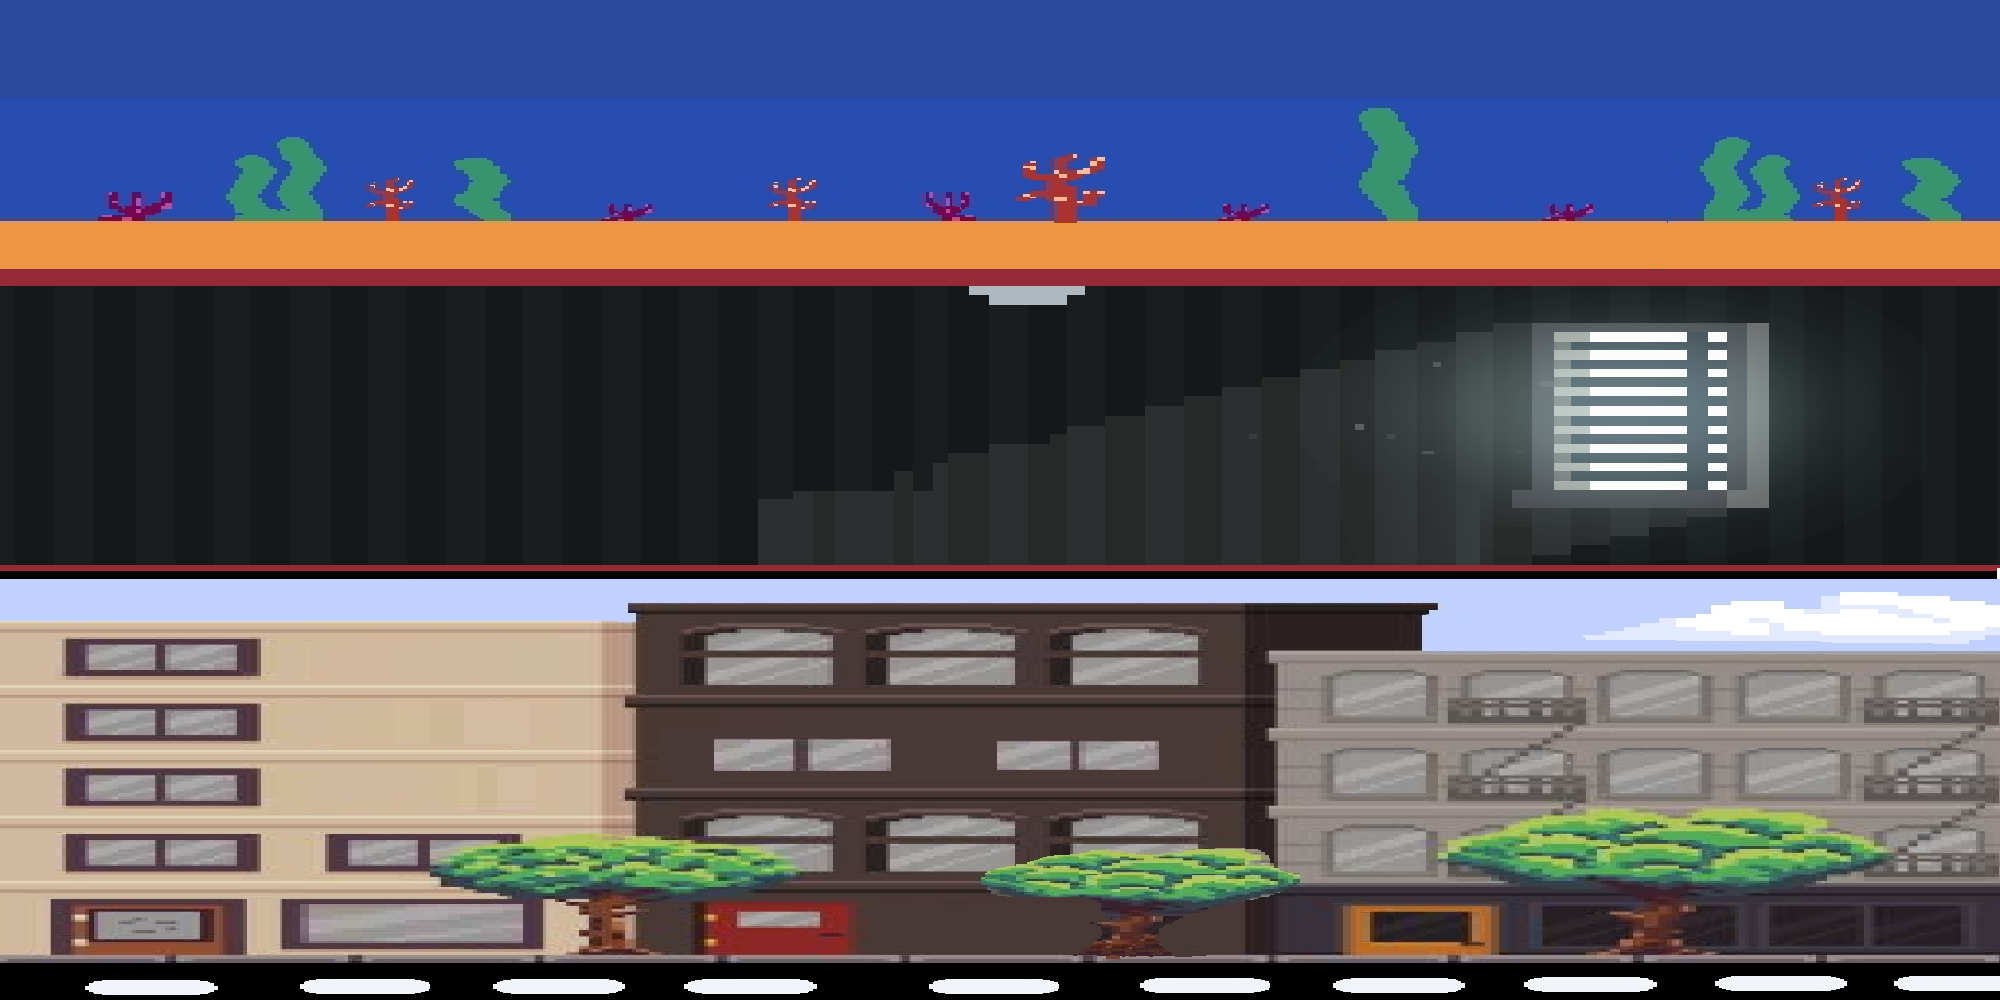
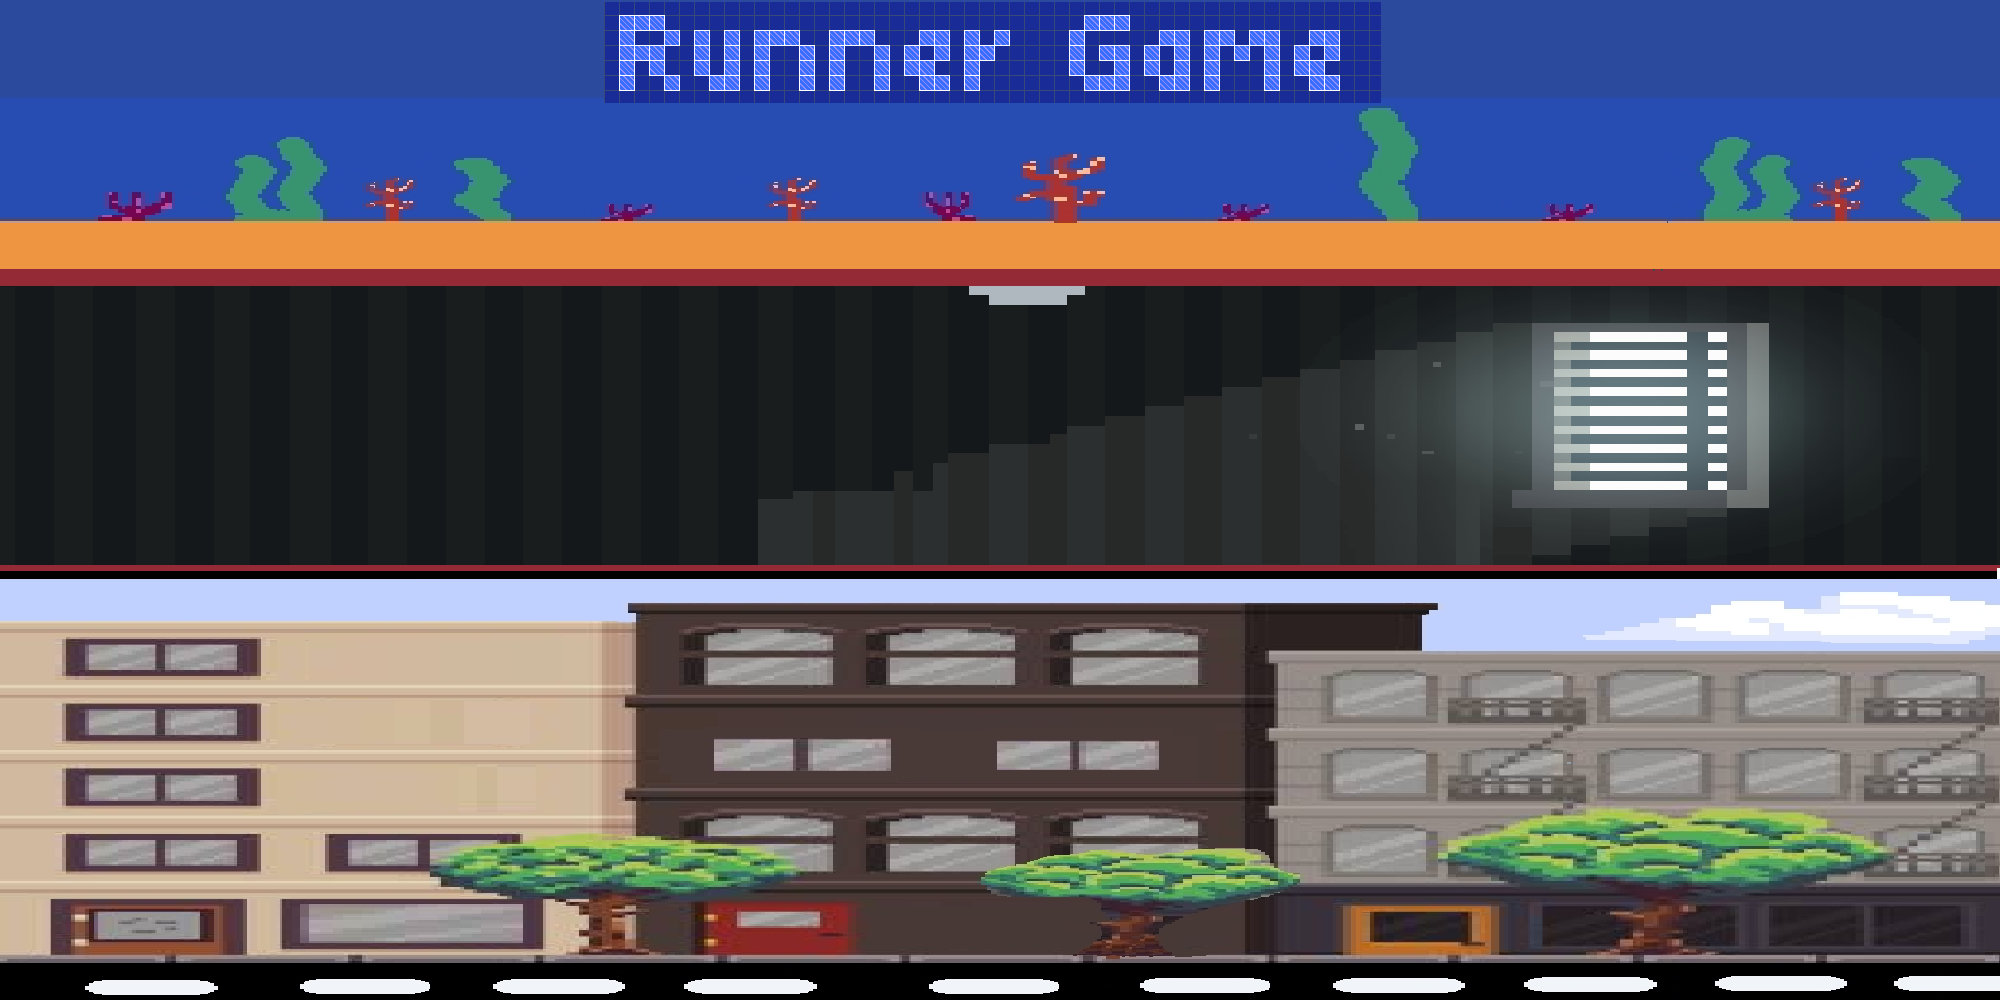
screens

Changed region(s): [[0.279, 0.0, 0.713, 0.124]]

diff --git a/Testing/core/src/com/mygdx/game/Screens/StartScreen.java b/Testing/core/src/com/mygdx/game/Screens/StartScreen.java
@@ -27,7 +27,6 @@ public class StartScreen implements Screen {
         this.stage = new Stage(new ScreenViewport());
         Gdx.input.setInputProcessor(stage);
         Bg = new TextureRegion(new Texture("Main_Screen.png"));
-
         initButtons();
     }
 
@@ -96,7 +95,7 @@ public class StartScreen implements Screen {
         Gdx.gl.glClear(GL20.GL_COLOR_BUFFER_BIT);           //clear screen
 
         game.batch.begin();
-        game.batch.draw(Bg, 0, 0, 2000 , 1000 );
+        game.batch.draw(Bg, -30, 80, Bg.getRegionWidth() * 1f, Bg.getRegionHeight() * 1f);
         game.batch.end();
 
         stage.act(Math.min(Gdx.graphics.getDeltaTime(), 1 / 30f));

diff --git a/Testing/core/src/com/mygdx/game/Screens/InfoScreen.java b/Testing/core/src/com/mygdx/game/Screens/InfoScreen.java
@@ -36,7 +36,7 @@ public class InfoScreen implements Screen {
         Gdx.gl.glClear(GL20.GL_COLOR_BUFFER_BIT);           //clear screen
 
         game.batch.begin();
-        game.batch.draw(Bg, -30, 80, Bg.getRegionWidth() * 7.5f, Bg.getRegionHeight() * 7.5f);
+        game.batch.draw(Bg, -30, 80, Bg.getRegionWidth() * 8f, Bg.getRegionHeight() * 4f);
         game.batch.end();
 
         stage.act(Math.min(Gdx.graphics.getDeltaTime(), 1 / 30f));

diff --git a/Testing/core/src/com/mygdx/game/RunnerGame.java b/Testing/core/src/com/mygdx/game/RunnerGame.java
@@ -20,8 +20,8 @@ public class RunnerGame extends Game {
 	public  static  final  short COURSEWORK_BIT = 8;
 	public static final short DESTROYED_BIT = 16;
 	public SpriteBatch batch;
-	public static boolean Level1 = false;
-	public static boolean Level2 = true;
+	public static boolean Level1 = true;
+	public static boolean Level2 = false;
 	public static boolean Level3 = false;
 	public static boolean canJump = true;
 	public static int Score = 0;

diff --git a/Testing/core/src/com/mygdx/game/Sprites/Cone.java b/Testing/core/src/com/mygdx/game/Sprites/Cone.java
@@ -18,7 +18,7 @@ public class Cone extends InteractiveTileObject {
     @Override
     public void onHeadHit() {
         Gdx.app.log("Cone", "Collision");
-        Hud.addScore(-2);
+        Hud.addScore(-5);
         RunnerGame.manager.get("audio/sounds/Game_hit.wav", Sound.class).play();
     }
 }
